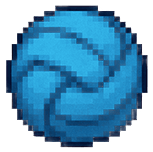
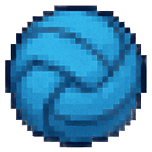
Added more spritesheets to how to play

diff --git a/story-manager.js b/story-manager.js
@@ -35,6 +35,11 @@ class StoryManager {
       next: { x: 0, y: 0, width: 100, height: 40, hovered: false },
       previous: { x: 0, y: 0, width: 100, height: 40, hovered: false },
     };
+
+    // Spritesheet animation state
+    this.currentFrame = 0;
+    this.frameTimer = 0;
+    this.lastUpdateTime = Date.now();
   }
 
   // Start showing the story intro
@@ -158,6 +163,22 @@ class StoryManager {
         this.isTransitioning = false;
       }
     }
+
+    // Update spritesheet animation
+    const currentSlide = this.slides[this.currentSlideIndex];
+    if (currentSlide && currentSlide.spritesheet) {
+      const spritesheetConfig = GameConfig[currentSlide.spritesheet];
+      if (spritesheetConfig) {
+        const msPerFrame = 1000 / spritesheetConfig.fps;
+        this.frameTimer += deltaTime;
+
+        if (this.frameTimer >= msPerFrame) {
+          this.currentFrame =
+            (this.currentFrame + 1) % spritesheetConfig.animationFrames.length;
+          this.frameTimer = 0;
+        }
+      }
+    }
   }
 
   handleMouseMove(x, y) {
@@ -246,6 +267,7 @@ class StoryManager {
       this.transitionDirection = 1;
       this.currentSlideIndex++;
       this.startTransition();
+      this.resetSpriteAnimation();
     }
   }
 
@@ -254,12 +276,18 @@ class StoryManager {
       this.transitionDirection = -1;
       this.currentSlideIndex--;
       this.startTransition();
+      this.resetSpriteAnimation();
     }
   }
 
   startTransition() {
     this.isTransitioning = true;
     this.transitionProgress = 0;
+  }
+
+  resetSpriteAnimation() {
+    this.currentFrame = 0;
+    this.frameTimer = 0;
   }
 
   isPointInRect(x, y, rect) {
@@ -427,43 +455,105 @@ class StoryManager {
     ctx.restore();
 
     // Image (if available) with scale animation
-    const image = this.game.images[slide.image];
-    if (image) {
-      const maxImageSize = this.game.getScaledValue(168);
+    // Check if this slide uses a spritesheet
+    if (slide.spritesheet) {
+      const spritesheetConfig = GameConfig[slide.spritesheet];
+      const spritesheetImage = this.game.images[spritesheetConfig.filename];
 
-      // Calculate aspect ratio preserving dimensions
-      const aspectRatio = image.width / image.height;
-      let imageWidth, imageHeight;
+      if (spritesheetImage && spritesheetConfig) {
+        const maxImageSize = this.game.getScaledValue(168);
 
-      if (aspectRatio > 1) {
-        // Landscape - constrain width
-        imageWidth = maxImageSize;
-        imageHeight = maxImageSize / aspectRatio;
-      } else {
-        // Portrait or square - constrain height
-        imageHeight = maxImageSize;
-        imageWidth = maxImageSize * aspectRatio;
+        // Calculate aspect ratio from frame dimensions
+        const aspectRatio =
+          spritesheetConfig.frameWidth / spritesheetConfig.frameHeight;
+        let imageWidth, imageHeight;
+
+        if (aspectRatio > 1) {
+          // Landscape - constrain width
+          imageWidth = maxImageSize;
+          imageHeight = maxImageSize / aspectRatio;
+        } else {
+          // Portrait or square - constrain height
+          imageHeight = maxImageSize;
+          imageWidth = maxImageSize * aspectRatio;
+        }
+
+        const imageX = container.x + container.width / 2 - imageWidth / 2;
+        const imageAreaY = contentY + this.game.getScaledValue(70);
+        const imageY = imageAreaY + (maxImageSize - imageHeight) / 2;
+
+        // Get current frame from animation sequence
+        const frameIndex =
+          spritesheetConfig.animationFrames[this.currentFrame];
+        const frameX = (frameIndex % spritesheetConfig.columns) * spritesheetConfig.frameWidth;
+        const frameY = Math.floor(frameIndex / spritesheetConfig.columns) * spritesheetConfig.frameHeight;
+
+        // Subtle pulse for image
+        const imageScale = this.isTransitioning ? alpha : 1;
+        ctx.save();
+        ctx.translate(imageX + imageWidth / 2, imageY + imageHeight / 2);
+        ctx.scale(imageScale, imageScale);
+        ctx.translate(-(imageX + imageWidth / 2), -(imageY + imageHeight / 2));
+
+        // Add subtle shadow to image
+        ctx.shadowColor = "rgba(0, 0, 0, 0.3)";
+        ctx.shadowBlur = this.game.getScaledValue(10);
+        ctx.shadowOffsetY = this.game.getScaledValue(5);
+
+        // Draw the current frame from the spritesheet
+        ctx.drawImage(
+          spritesheetImage,
+          frameX,
+          frameY,
+          spritesheetConfig.frameWidth,
+          spritesheetConfig.frameHeight,
+          imageX,
+          imageY,
+          imageWidth,
+          imageHeight
+        );
+        ctx.restore();
       }
+    } else {
+      // Static image fallback
+      const image = this.game.images[slide.image];
+      if (image) {
+        const maxImageSize = this.game.getScaledValue(168);
 
-      const imageX = container.x + container.width / 2 - imageWidth / 2;
-      // Center all images vertically in the same space
-      const imageAreaY = contentY + this.game.getScaledValue(70);
-      const imageY = imageAreaY + (maxImageSize - imageHeight) / 2;
+        // Calculate aspect ratio preserving dimensions
+        const aspectRatio = image.width / image.height;
+        let imageWidth, imageHeight;
 
-      // Subtle pulse for image
-      const imageScale = this.isTransitioning ? alpha : 1;
-      ctx.save();
-      ctx.translate(imageX + imageWidth / 2, imageY + imageHeight / 2);
-      ctx.scale(imageScale, imageScale);
-      ctx.translate(-(imageX + imageWidth / 2), -(imageY + imageHeight / 2));
+        if (aspectRatio > 1) {
+          // Landscape - constrain width
+          imageWidth = maxImageSize;
+          imageHeight = maxImageSize / aspectRatio;
+        } else {
+          // Portrait or square - constrain height
+          imageHeight = maxImageSize;
+          imageWidth = maxImageSize * aspectRatio;
+        }
 
-      // Add subtle shadow to image
-      ctx.shadowColor = "rgba(0, 0, 0, 0.3)";
-      ctx.shadowBlur = this.game.getScaledValue(10);
-      ctx.shadowOffsetY = this.game.getScaledValue(5);
+        const imageX = container.x + container.width / 2 - imageWidth / 2;
+        // Center all images vertically in the same space
+        const imageAreaY = contentY + this.game.getScaledValue(70);
+        const imageY = imageAreaY + (maxImageSize - imageHeight) / 2;
 
-      ctx.drawImage(image, imageX, imageY, imageWidth, imageHeight);
-      ctx.restore();
+        // Subtle pulse for image
+        const imageScale = this.isTransitioning ? alpha : 1;
+        ctx.save();
+        ctx.translate(imageX + imageWidth / 2, imageY + imageHeight / 2);
+        ctx.scale(imageScale, imageScale);
+        ctx.translate(-(imageX + imageWidth / 2), -(imageY + imageHeight / 2));
+
+        // Add subtle shadow to image
+        ctx.shadowColor = "rgba(0, 0, 0, 0.3)";
+        ctx.shadowBlur = this.game.getScaledValue(10);
+        ctx.shadowOffsetY = this.game.getScaledValue(5);
+
+        ctx.drawImage(image, imageX, imageY, imageWidth, imageHeight);
+        ctx.restore();
+      }
     }
 
     // Text with better spacing and styling

diff --git a/config.js b/config.js
@@ -145,6 +145,48 @@ const GameConfig = {
     fps: 18, // 18 frames per second for faster crawling animation
   },
 
+  MARTHA_STORY1_SPRITESHEET: {
+    filename: "martha-story1-spritesheet.png",
+    frameWidth: 260, // Width of each frame in the spritesheet (1560 / 6)
+    frameHeight: 220, // Height of each frame in the spritesheet (1320 / 6)
+    columns: 6,
+    rows: 6,
+    totalFrames: 36,
+    animationFrames: [
+      0, 1, 2, 3, 4, 5, 6, 7, 8, 9, 10, 11, 12, 13, 14, 15, 16, 17, 18, 19, 20,
+      21, 22, 23, 24, 25, 26, 27, 28, 29, 30, 31, 32, 33, 34, 35,
+    ], // All 36 frames
+    fps: 12, // 12 frames per second for story animation
+  },
+
+  MARTHA_STORY3_SPRITESHEET: {
+    filename: "martha-story3-spritesheet.png",
+    frameWidth: 277, // Width of each frame in the spritesheet (1662 / 6)
+    frameHeight: 267, // Height of each frame in the spritesheet (1602 / 6)
+    columns: 6,
+    rows: 6,
+    totalFrames: 36,
+    animationFrames: [
+      0, 1, 2, 3, 4, 5, 6, 7, 8, 9, 10, 11, 12, 13, 14, 15, 16, 17, 18, 19, 20,
+      21, 22, 23, 24, 25, 26, 27, 28, 29, 30, 31, 32, 33, 34, 35,
+    ], // All 36 frames
+    fps: 12, // 12 frames per second for story animation
+  },
+
+  MARTHA_STORY5_SPRITESHEET: {
+    filename: "martha-story5-spritesheet.png",
+    frameWidth: 172, // Width of each frame in the spritesheet (1032 / 6)
+    frameHeight: 259, // Height of each frame in the spritesheet (1554 / 6)
+    columns: 6,
+    rows: 6,
+    totalFrames: 36,
+    animationFrames: [
+      0, 1, 2, 3, 4, 5, 6, 7, 8, 9, 10, 11, 12, 13, 14, 15, 16, 17, 18, 19, 20,
+      21, 22, 23, 24, 25, 26, 27, 28, 29, 30, 31, 32, 33, 34, 35,
+    ], // All 36 frames
+    fps: 12, // 12 frames per second for story animation
+  },
+
   // Throwing screen settings
   THROWING_BOUNDS: {
     LEFT: 0,
@@ -484,6 +526,13 @@ const GameConfig = {
       "martha-sockballs-spritesheet.png",
       "martha-losing-spritesheet.png",
       "martha-crawling-spritesheet.png",
+      "martha-story1-spritesheet.png",
+      "martha-story3-spritesheet.png",
+      "martha-story5-spritesheet.png",
+      "martha-unlock1-spritesheet.png",
+      "martha-unlock3-spritesheet.png",
+      "martha-unlock5-spritesheet.png",
+      "martha-unlock7-spritesheet.png",
     ],
     UI: [
       "background.png",
@@ -734,6 +783,7 @@ const GameConfig = {
       title: "Meet Martha",
       text: "This is Martha, your landlord. She loves three things: raising rent, collecting rent, and socks. Unfortunately, you're the one paying.",
       image: "htp-1.png",
+      spritesheet: "MARTHA_STORY1_SPRITESHEET",
     },
     {
       id: "rent_problem",
@@ -746,6 +796,7 @@ const GameConfig = {
       title: "Sock Power",
       text: "Turns out, matching two socks creates a sockball—a surprisingly potent fusion of fabric, static, and stress. Match fast, or Martha starts tapping her foot.",
       image: "htp-3.png",
+      spritesheet: "MARTHA_STORY3_SPRITESHEET",
     },
     {
       id: "how_to_play",
@@ -758,6 +809,7 @@ const GameConfig = {
       title: "Good Luck",
       text: "Keep up the good throws, pay your rent in sockballs, and maybe — just maybe — Martha won't raise rent again next week. Or she will. She usually does.",
       image: "htp-5.png",
+      spritesheet: "MARTHA_STORY5_SPRITESHEET",
     },
   ],
 
